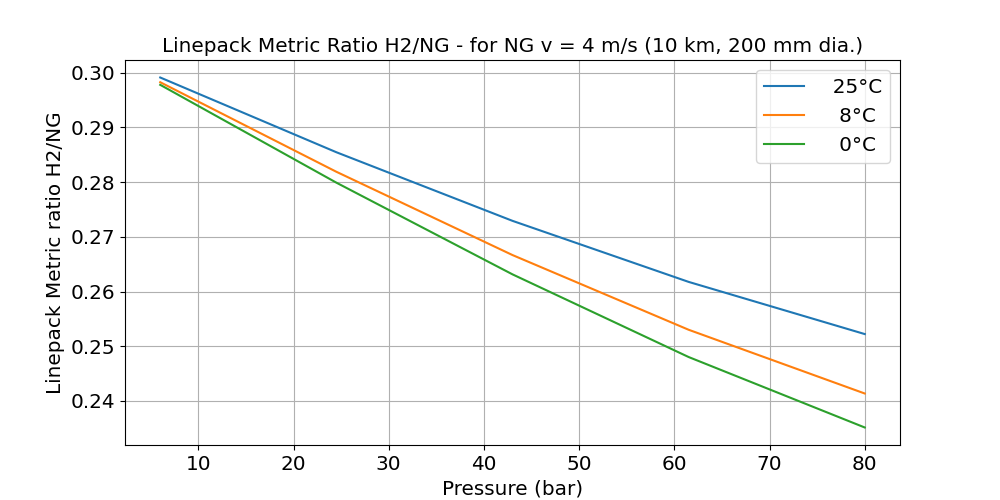
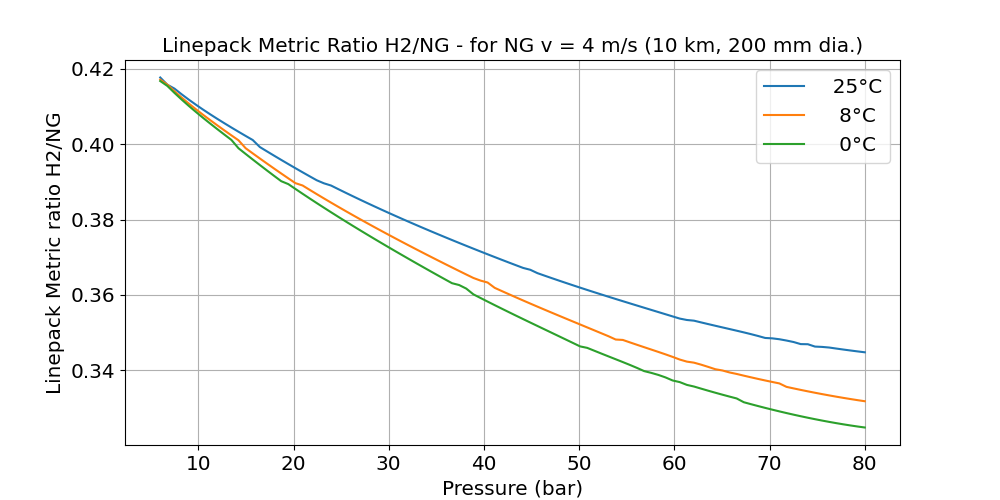
linepack using different of in and out now

diff --git a/moody.py b/moody.py
@@ -540,7 +540,7 @@ def funct_B_sub(g, Qg, D):
     m = do_mm_rules(g) # g/mol
     m_kg = m * 1e-3 # kg/mol
     Bs = np.power(Qg/A,2) * Rg  / m_kg
-    print(f".. {g:7} B/T: {Bs:9.4f} {m=:8.4f} g/mol {A=:9.5} m²  {D=} m  {Qg=:9.5f} kg/s")
+    #print(f".. {g:7} B/T: {Bs:9.4f} {m=:8.4f} g/mol {A=:9.5} m²  {D=} m  {Qg=:9.5f} kg/s")
     return Bs
     
 @memoize
@@ -637,18 +637,18 @@ def running_dp38(L, g, T, P0, f_function, rr, D, Qh):
     func(x,..)
     """
     def dpdx(x,p):
-        # Have to do this because I can't find the args=() documentaiton for scipy
+        # Have to do this because I can't find the args=() documentation for scipy
         if type(p) is not float:
             p = p[0] # scipy likes to set this to a numpty.ndarray of a numpy.float64 value instead of a simple float
         gradient = dp38(x, p, g, T, f_function, rr, D, Qh)
         return gradient
         
-    p = P0 # 84 bar
+    p = P0 # 84 bar, for Yamal pipe
     
     # Initial condition p = [P0]
     x_span = (0, L)
     # Solve the ODE
-    solution = solve_ivp(dpdx, x_span, [P0]) # has to be a list for last vaiable
+    solution = solve_ivp(dpdx, x_span, [P0]) # has to be a list for last variable
 
     #print(solution.t)
     #print(solution.y)
@@ -700,27 +700,42 @@ def dp38(x, P, g, T, f_function, rr, D, Qh):
     #print (f"--{g:7} P={P/1e5:0.5f} bar  {B=:0.5e} Pa² gradient={gradient*1000:0.5e} bar/km")
     return gradient # bar/m
 
-@memoize
-def LPM(g, T, P, L_seg, D, Qh):
+#@memoize
+def LPM(g, T, P_ent, L_seg, D, Qh, rr=1e-5, f_function=afzal_mod):
     """LinePackMetric for a gas in a pipe of length L (m), diameter D (m), carrying Qh (GW) of gas
     But perhaps GW is the wrong thing to keep constant, maybe all for same gas velocity ? 
     At each pressure, maintaining the same MJ/s for Ng at 5 m/s ?
     """
+    def energy_in_pipe(Pp):
+        v = get_v_from_Q(g, T, Pp, Qh, D)
+        ϱ = get_density(g, Pp, T) 
+        ϱv = ϱ * v
+        
+        Vm = get_Vm(g, Pp, T) # m³/mol - molar volume at P
+        hhvv = hc_g / Vm # MJ/m³ # HHV per cubic metre
+        E_seg = V_seg * hhvv *1e6 # J = Ws = amount of gas when linepacked 100%
+        #print(f"++ {g:5} ({T-T273:5.1f}°C) {P=:5.1f} {ϱ=:8.4f} kg/m³  {v=:8.4f} m/s  {ϱv=:8.3f} kg/s.m² {hhvv=:8.3f} MJ/m³ Vm{Vm*1000:8.3f} m³/kmol")
+        return E_seg
+        
     A = get_A(D)
-    v0 = get_v_from_Q(g, T, P, Qh, D)
-    ϱ0 = get_density(g, P, T) 
-    ϱv0 = ϱ0 * v0
-    # HHV per cubic metre
-    Vm = get_Vm(g, P, T) # m³/mol
-    _, _, hc_g = get_Hc(g, T) # MJ/mol
-    hhvv = hc_g / Vm # MJ/m³
-    V_seg = L_seg * A # velocity
-    E_seg = V_seg * hhvv *1e6 # J = Ws
-    lpm = E_seg/(Qh*1e9) # Ws / W
-    #print(f"++ {g:5} ({T-T273:5.1f}°C) {ϱ0=:8.4f} kg/m³  {v0=:8.4f} m/s  {ϱv0=:8.3f} kg/s.m² {hhvv=:8.3f} MJ/m³ Vm{Vm*1000:8.3f} m³/kmol")
-    lpm_km = lpm/(L_seg * 1e-3)
+    V_seg = L_seg * A # volume
+    _, _, hc_g = get_Hc(g, T) # MJ/mol 
 
-    #print(f"+++{g:5} ({T-T273:5.1f}°C) {P=:7.1f} bar V_seg={V_seg/1e3:9.4f} 1000.m³ lpm={lpm:8.1e} s  ={lpm/3600:7.3f} hours  lpm/km={lpm_km:8.1f} s/km")
+    P_exit = running_dp38(L_seg, g, T, P_ent, f_function, rr, D, Qh)
+    #print(f"++ {g:5} ({T-T273:5.1f}°C)  {P=:5.1f} {P_exit=:5.1f} {P-P_exit=:7.3f} ")
+
+    E_ent = energy_in_pipe(P_ent)*1e-9 # GJ =GWs
+    E_exit = energy_in_pipe(P_exit)*1e-9 # GJ = GWs
+    
+    # Now subtract the amount of gas which is in the pipe under normal flow
+     
+    
+    lpm = (E_ent-E_exit)/(Qh) # GWs / GW
+    #lpm = (E_ent)/(Qh) # GWs / GW
+
+    lpm_km = lpm/(L_seg * 1e-3)
+    #print(f"+++{g:5} ({T-T273:5.1f}°C) {P_ent=:7.1f} bar  E_ent={E_ent:8.0f} E_exit={E_exit:8.0f} lpm={lpm:8.1e} s  ={lpm/3600:7.3f} hours  lpm/km={lpm_km:8.1f} s/km")
+    # print(f"+++{g:5} ({T-T273:5.1f}°C) {P=:7.1f} bar V_seg={V_seg/1e3:9.4f} 1000.m³ lpm={lpm:8.1e} s  ={lpm/3600:7.3f} hours  lpm/km={lpm_km:8.1f} s/km")
 
     return lpm # in seconds
 
@@ -735,15 +750,15 @@ def plot_lpm():
         
         return Q_NG
          
-    pressures = np.linspace(8, 80, 5)  # bar
+    pressures = np.linspace(8, 80, 100)  # bar
     plt.figure(figsize=(10, 5))
     
     for g in ['NG', 'H2']:
         L_seg = 10  # km
         D = 0.2 # 200 mm
         v = 4 # m/s
-        #for T in [ T8C]:
-        for T in [T230, T8C, T25C, T50C]:
+        for T in [ T8C]:
+        #for T in [T230, T8C, T25C, T50C]:
             # for p in pressures:
                 # v_gas = get_v_from_Q(g, T, p, get_Q(g,p), D)
                 # print(f"|| {g:7} {v_gas=:9.4f} m/s")
@@ -765,7 +780,7 @@ def plot_lpm():
 
     # Plot LPM  RATIO hydrogen : natural gases
     if True:
-        pressures = np.linspace(6, 80, 5)  # bar
+        pressures = np.linspace(6, 80, 100)  # bar
         plt.figure(figsize=(10, 5))
         for g in ['NG']:
             L_seg = 10 # km
@@ -1128,9 +1143,10 @@ plt.rcParams.update(params)
 T8C = T273 +8
 T = T8C
 P = 30
-plot_lpm()
+plot_lpm() # using defaults for rr and f_function
 
 moody_ylim = True
+
 
 reynolds_laminar = np.logspace(2.9, 3.9, 5) # 10^2.7 = 501, 10^3.4 = 2512
 reynolds = np.logspace(2.4, 14.0, 1000) # 10^7.7 = 5e7
